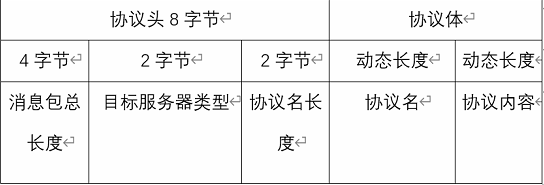
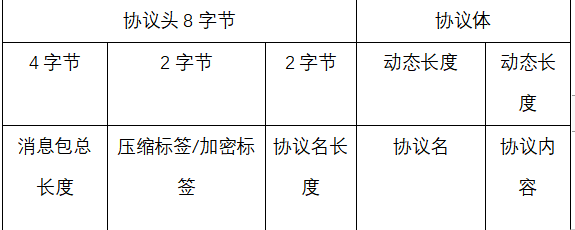
客户端消息加密支持

diff --git a/network/WebSocketClient.go b/network/WebSocketClient.go
@@ -2,6 +2,7 @@ package network
 
 import (
 	"github.com/gorilla/websocket"
+	"github.com/snowyyj001/loumiao/lconfig"
 	"github.com/snowyyj001/loumiao/llog"
 	"github.com/snowyyj001/loumiao/lutil"
 	"github.com/snowyyj001/loumiao/message"
@@ -87,8 +88,14 @@ func wsServerClientWriteRoutine(pClient *WebSocketClient) bool {
 
 		select {
 		case m := <-pClient.m_WriteChan:
+			if lconfig.NET_NODE_TYPE == lconfig.ServerType_Gate {
+				message.EncryptBuffer(m, len(m))
+			}
 			pClient.sendClient(m)
 		case <-bMsg.c:
+			if lconfig.NET_NODE_TYPE == lconfig.ServerType_Gate {
+				message.EncryptBuffer(bMsg.buffer, len(bMsg.buffer))
+			}
 			pClient.sendClient(bMsg.buffer)
 			pClient.m_broadMsgId++
 			bMsg = broadMsgArray[pClient.m_broadMsgId]
@@ -111,19 +118,22 @@ func wsServerClientReadRoutine(pClient *WebSocketClient) bool {
 			break
 		}
 
-		mt, message, err := pClient.m_WsConn.ReadMessage()
+		mt, buff, err := pClient.m_WsConn.ReadMessage()
 		if err != nil {
 			llog.Infof("远程链接：%s已经关闭！%v\n", pClient.GetSAddr(), err)
 			pClient.OnNetFail(1)
 			break
 		}
 		if mt != websocket.BinaryMessage {
-			llog.Infof("远程read内容格式错误: %s！ %s", pClient.GetSAddr(), string(message))
+			llog.Infof("远程read内容格式错误: %s！ %s", pClient.GetSAddr(), string(buff))
 			pClient.OnNetFail(2)
 			break
 		}
 
-		ok := pClient.ReceivePacket(pClient.m_ClientId, message)
+		if lconfig.NET_NODE_TYPE == lconfig.ServerType_Gate {
+			message.DecryptBuffer(buff, len(buff))
+		}
+		ok := pClient.ReceivePacket(pClient.m_ClientId, buff)
 		if !ok {
 			llog.Errorf("远程ReceivePacket错误: %s！", pClient.GetSAddr())
 			pClient.OnNetFail(3)

diff --git a/message/Message.go b/message/Message.go
@@ -1,9 +1,9 @@
 package message
 
 import (
-	"encoding/binary"
 	_ "fmt"
 	"github.com/snowyyj001/loumiao/lconfig"
+	"github.com/snowyyj001/loumiao/lutil"
 	"reflect"
 	"sync"
 )
@@ -13,6 +13,10 @@ const (
 	MSGNAME_SIZE = 36 //消息名最大长度
 
 	Flag_RPC int = 1 << 0
+)
+
+var (
+	ENCRYPTION_KEY uint32 = 123 //消息报加密key
 )
 
 type MsgPool struct {
@@ -77,7 +81,7 @@ func GetPakcet(name string) interface{} {
 }
 
 /*
-func PutPakcet(name string, data interface{}) {
+func PutPacket(name string, data interface{}) {
 	packetFunc, exist := Packet_CreateFactorStringMap[name]
 	if exist {
 		packetFunc.cache.Put(data)
@@ -85,8 +89,28 @@ func PutPakcet(name string, data interface{}) {
 }
 */
 
-// 替换消息包的target字段(5,6字节)
-func ReplacePakcetTarget(target int32, buff []byte) {
-	tmp := uint16(target)
-	binary.BigEndian.PutUint16(buff[4:], tmp)
+func EnableEncryptDecrypt() {
+	ENCRYPTION_KEY = uint32(lutil.Random(10000))
+}
+
+func EncryptBuffer(buff []byte, sz int) {
+	if ENCRYPTION_KEY == 0 {
+		return
+	}
+	buff[5] = 1
+	for i := 6; i < sz; i++ {
+		buff[i] = byte(uint32(buff[i]) ^ ENCRYPTION_KEY)
+	}
+}
+
+func DecryptBuffer(buff []byte, sz int) {
+	if ENCRYPTION_KEY == 0 {
+		return
+	}
+	if buff[5] == 0 {
+		return
+	}
+	for i := 6; i < sz; i++ {
+		buff[i] = byte(uint32(buff[i]) ^ ENCRYPTION_KEY)
+	}
 }

diff --git a/network/ServerSocketClient.go b/network/ServerSocketClient.go
@@ -1,6 +1,7 @@
 package network
 
 import (
+	"github.com/snowyyj001/loumiao/lconfig"
 	"github.com/snowyyj001/loumiao/llog"
 	"github.com/snowyyj001/loumiao/lutil"
 	"github.com/snowyyj001/loumiao/message"
@@ -96,8 +97,14 @@ func serverWriteRoutine(pClient *ServerSocketClient) bool {
 
 		select {
 		case m := <-pClient.m_WriteChan:
+			if lconfig.NET_NODE_TYPE == lconfig.ServerType_Gate {
+				message.EncryptBuffer(m, len(m))
+			}
 			pClient.sendClient(m)
 		case <-bMsg.c:
+			if lconfig.NET_NODE_TYPE == lconfig.ServerType_Gate {
+				message.EncryptBuffer(bMsg.buffer, len(bMsg.buffer))
+			}
 			pClient.sendClient(bMsg.buffer)
 			pClient.m_broadMsgId++
 			bMsg = broadMsgArray[pClient.m_broadMsgId]
@@ -132,6 +139,9 @@ func serverReadRoutine(pClient *ServerSocketClient) bool {
 			break
 		}
 		if n > 0 {
+			if lconfig.NET_NODE_TYPE == lconfig.ServerType_Gate {
+				message.DecryptBuffer(buff, n)
+			}
 			ok := pClient.ReceivePacket(pClient.m_ClientId, buff[:n])
 			if !ok {
 				llog.Errorf("远程ReceivePacket错误: %s！", pClient.GetSAddr())

diff --git a/message/Packet.go b/message/Packet.go
@@ -17,7 +17,7 @@ import (
 //消息buffer以大端传输
 //4+2+2+name+msg
 //1，2，3，4字节代表消息报总长度
-//5，6字节代表目标服务器类型/目标服务器uid
+//5，6字节代表目标服务器uid/压缩标签，加密标签
 //7，8字节代表消息名长度
 
 // Encode target: 目标服务器类型/id
@@ -70,10 +70,6 @@ func EncodeProBuff(target int, name string, packet interface{}) ([]byte, int) {
 func DecodeProBuff(uid int, buff []byte, length int) (error, int, string, interface{}) {
 	mbuff1 := buff[4:6]
 	target := int(lbase.BytesToUInt16(mbuff1, binary.BigEndian))
-
-	if target > 0 && target != uid { //do not need decode anymore, a msg to other server
-		return nil, target, "", nil
-	}
 
 	mbuff1 = buff[6:8]
 	nameLen := lbase.BytesToUInt16(mbuff1, binary.BigEndian)

diff --git a/lconfig/GameConfig.go b/lconfig/GameConfig.go
@@ -10,7 +10,7 @@ var (
 
 	NET_MAX_CONNS           = 50000            //最大连接数
 	NET_MAX_RPC_CONNS       = 1024             //rpc最大连接数
-	NET_BUFFER_SIZE         = 1024 * 32        //最大消息包长度32k(对外)
+	NET_BUFFER_SIZE         = 1024 * 1024 * 2  //最大消息包长度2M(对外)
 	NET_CLUSTER_BUFFER_SIZE = 16 * 1024 * 1024 //最大消息包长度16M(对内)
 	NET_MAX_NUMBER          = 10000            //pcu
 	NET_MAX_WRITE_CHANSIZE  = 20000            //socket写缓冲
